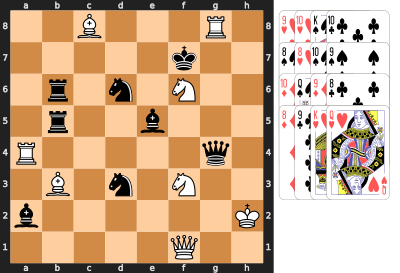
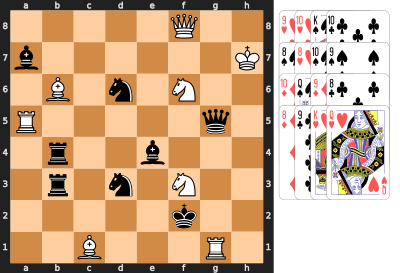
Update Chess Golf rules to replace pieces and choose more cards, for #27.

diff --git a/raw_rules/rules.md b/raw_rules/rules.md
@@ -223,8 +223,8 @@ players only learn about their pieces during capture, which slows the pace of
 the game.
 
 ## Chess Golf
-All the players try to work out the most efficient way to bring two pieces
-together, using all the wrong moves. This game is a series of puzzles, so let's
+All the players try to work out the most efficient way to capture the chosen
+pieces, using all the wrong moves. This game is a series of puzzles, so let's
 start with an example:
 
     . . B . . . R .
@@ -243,9 +243,9 @@ start with an example:
     arrow: b2, h2, grey
     arrow: g2, a2, grey
 
-Every puzzle starts with the pieces spread around the board, and two cards
-choosing two types of pieces according to the table in appendix A. The goal is
-to make one piece type capture the other in as few moves as possible. In this
+Every puzzle starts with the pieces spread around the board, and some cards
+choosing types of pieces according to the table in appendix A. The goal is
+to make one piece type capture the others in as few moves as possible. In this
 example, you have to make the white king capture one of the black bishops or
 make one of the black bishops capture the white king.
 
@@ -321,8 +321,8 @@ appendix A. You don't need the pawn cards, so you should end up with 16 cards.
 
 Put the rest of the cards away, you won't need them. Then shuffle the cards and
 place them next to the board. Draw one card at a time, placing the matching
-piece on the board. Starting in the top left corner, leave the following numbers
-of empty squares before each piece:
+piece on the board. Starting at a1 through h1, then a2 through h2, all the way
+to h8. Leave the following numbers of empty squares before each piece:
 
 * Kings - 6 empty squares
 * Queens - 5 empty squares
@@ -334,14 +334,14 @@ Here's an example with all the cards laid out in the order they were drawn, from
 the 9 and 10 of hearts to the queen of hearts. Check to make sure you agree with
 where the pieces were placed.
 
-    . . B . . . R .
-    . . . . . k . .
-    . r . n . N . .
-    . r . . b . . .
-    R . . . . . q .
-    . B . n . N . .
-    b . . . . . . K
     . . . . . Q . .
+    b . . . . . . K
+    . B . n . N . .
+    R . . . . . q .
+    . r . . b . . .
+    . r . n . N . .
+    . . . . . k . .
+    . . B . . . R .
     margins: 0, 0, 4, 0
     card: 9H, 8.5, 0
     card: 10H, 9, 0
@@ -369,18 +369,16 @@ top of the paper, leaving enough room for 9 scores and a course total.
 ### Play
 On the first turn, the dealer will **draw** two cards and place them face
 up next to the board where all players can see them. Check appendix A if you
-need to, and **announce** the two chosen piece types for this turn. On later
-turns, only draw one card and play it on top of the card for the piece that was
-just captured.
+need to, and **announce** the two chosen piece types for this turn.
 
-**Start** the timer, while all players try to **solve** the puzzle in as few
-moves as possible. While solving, no one actually moves the pieces. Just
-visualize how the pieces will move and count how many moves you need to capture
-one of the piece types with the other.
+All players try to **solve** the puzzle in as few moves as possible. While
+solving, no one actually moves the pieces. Just visualize how the pieces will
+move and count how many moves you need to capture one of the piece types with
+the other.
 
-When you **find** a solution and count the moves, put your fist on the table
-to show that you're ready. When all the players have a fist on the table or
-when the timer runs out, the solving phase ends.
+When you **find** a solution and count the moves, start the timer, then put your
+fist on the table to show that you're ready. When all the players have a fist on
+the table or when the timer runs out, the solving phase ends.
 
 Now, everyone **reveals** their move count at the same time. Bang your fist on
 the table as you count "one, two, three." As you say "three," everyone puts out
@@ -388,7 +386,7 @@ a number of fingers to show how many moves they need. The scorekeeper writes
 down everyone's numbers. If you think it's impossible, keep your hand in a fist
 as a zero.
 
-The player with the fewest strokes must now **demonstrate** the path. If some
+The player with the fewest moves must now **demonstrate** the path. If some
 players are tied for fewest, start with the dealer and go around to the
 left until you reach one of the tied players. That player must demonstrate. It
 can be helpful to start by placing coins under all the pieces that you're going
@@ -407,40 +405,64 @@ number demonstrate. If they are successful, then all the players with a zero get
 the maximum number plus a one-point penalty.
 
 After a successful demonstration, leave the pieces in their final positions, and
-place the captured piece beside the board. Remove the coins, if you used them.
-**Pass** the deck one player to the left to choose a new dealer.
+add any captured pieces back to the board in any empty squares. Remove the
+coins, if you used them. **Pass** the deck one player to the left to choose a
+new dealer.
 
-### Special Moves
+### Special Move
 The basic moves are to borrow a move from a neighbouring piece of the same
 colour. You may only capture one of the chosen piece types with the other one.
 No other captures are allowed.
 
-In addition, there are two special moves to help when you get stuck:
+In addition, there is one special move to help when you get stuck: if one of the
+colours has no pairs of pieces next to each other, then any piece of that colour
+may make a king's move.
 
-1. Move any piece on the board using a king's move of one square in any
-   direction.
-2. Add one of the captured pieces back to the board. You may add it to any
-   square, except that you may not add one of the chosen piece types to a
-   square that neighbours the other chosen piece type.
+For example, in the position below, neither the white knights nor the black
+queen has any neighbours of the matching colour. One way to move them is
+bringing in other pieces to borrow moves from. However, there's an easier way.
 
-The special moves are powerful, but expensive. When you count up your moves, a
-special move counts as 10. For example, adding a piece and then immediately
-using it to capture would count as 11 moves.
+    . . . . . Q . .
+    b . . . . . . K
+    . B . n . N . .
+    R . . . . . q .
+    . r . . b . . .
+    . r . n . N . .
+    . . . . . k . .
+    . . B . . . R .
+    margins: 0, 0, 4, 0
+    card: QS, 10, 0.5
+    card: 8H, 10, 4.5
 
-To allow scores over 10, use this special system when revealing your move counts:
+Moving the bishop breaks the last pair of neighbouring white pieces, so the
+white knight at f6 can now use a king's move to capture the black queen.
 
-* 1 point for right hand fingers
-* 5 points for right hand thumb
-* 10 points for left hand fingers
-* 50 points for left hand thumb
+    . . . . . Q . .
+    b . . . . . . K
+    . . B n . . . .
+    R . . . . . N .
+    . r . . b . . .
+    . r . n . N . .
+    . . . . . k . .
+    . . B . . . R .
+    margins: 0, 0, 4, 0
+    card: QS, 10, 0.5
+    card: 8H, 10, 4.5
+    arrow: b6, c6, white
+    arrow: f6, g5, white
 
-That will let you reveal scores up to 99, more than you will need. If that's too
-fiddly, you can give each player their own paper and pencil to write their
-scores in secret before everyone reveals them.
+### Difficulty Level
+Once all players pick the same number of moves on a turn, the dealer may choose
+to increase the difficulty level by dealing one more card on later turns. If
+all players pick the same number of moves on a turn with three cards, the dealer
+may increase to four cards, and so on.
 
 ### Game End
-Continue dealing a new card each turn until you have played 9 turns. Add up the
-points for all 9 turns, and award the game to the player with the lowest score.
+Continue dealing new cards each turn until you have played 9 turns. If you
+don't have enough cards to deal, shuffle the discard pile back in before you
+deal. Add up the points for all 9 turns, and award the game to the player with
+the lowest score.
+
 A tie goes to the best dressed player.
 
 ## Crowded House

diff --git a/docs/rules.md b/docs/rules.md
@@ -220,15 +220,15 @@ players only learn about their pieces during capture, which slows the pace of
 the game.
 
 ## Chess Golf
-All the players try to work out the most efficient way to bring two pieces
-together, using all the wrong moves. This game is a series of puzzles, so let's
+All the players try to work out the most efficient way to capture the chosen
+pieces, using all the wrong moves. This game is a series of puzzles, so let's
 start with an example:
 
 ![Diagram](images/rules/chess-golf1.png)
 
-Every puzzle starts with the pieces spread around the board, and two cards
-choosing two types of pieces according to the table in appendix A. The goal is
-to make one piece type capture the other in as few moves as possible. In this
+Every puzzle starts with the pieces spread around the board, and some cards
+choosing types of pieces according to the table in appendix A. The goal is
+to make one piece type capture the others in as few moves as possible. In this
 example, you have to make the white king capture one of the black bishops or
 make one of the black bishops capture the white king.
 
@@ -278,8 +278,8 @@ appendix A. You don't need the pawn cards, so you should end up with 16 cards.
 
 Put the rest of the cards away, you won't need them. Then shuffle the cards and
 place them next to the board. Draw one card at a time, placing the matching
-piece on the board. Starting in the top left corner, leave the following numbers
-of empty squares before each piece:
+piece on the board. Starting at a1 through h1, then a2 through h2, all the way
+to h8. Leave the following numbers of empty squares before each piece:
 
 * Kings - 6 empty squares
 * Queens - 5 empty squares
@@ -302,18 +302,16 @@ top of the paper, leaving enough room for 9 scores and a course total.
 ### Play
 On the first turn, the dealer will **draw** two cards and place them face
 up next to the board where all players can see them. Check appendix A if you
-need to, and **announce** the two chosen piece types for this turn. On later
-turns, only draw one card and play it on top of the card for the piece that was
-just captured.
+need to, and **announce** the two chosen piece types for this turn.
 
-**Start** the timer, while all players try to **solve** the puzzle in as few
-moves as possible. While solving, no one actually moves the pieces. Just
-visualize how the pieces will move and count how many moves you need to capture
-one of the piece types with the other.
+All players try to **solve** the puzzle in as few moves as possible. While
+solving, no one actually moves the pieces. Just visualize how the pieces will
+move and count how many moves you need to capture one of the piece types with
+the other.
 
-When you **find** a solution and count the moves, put your fist on the table
-to show that you're ready. When all the players have a fist on the table or
-when the timer runs out, the solving phase ends.
+When you **find** a solution and count the moves, start the timer, then put your
+fist on the table to show that you're ready. When all the players have a fist on
+the table or when the timer runs out, the solving phase ends.
 
 Now, everyone **reveals** their move count at the same time. Bang your fist on
 the table as you count "one, two, three." As you say "three," everyone puts out
@@ -321,7 +319,7 @@ a number of fingers to show how many moves they need. The scorekeeper writes
 down everyone's numbers. If you think it's impossible, keep your hand in a fist
 as a zero.
 
-The player with the fewest strokes must now **demonstrate** the path. If some
+The player with the fewest moves must now **demonstrate** the path. If some
 players are tied for fewest, start with the dealer and go around to the
 left until you reach one of the tied players. That player must demonstrate. It
 can be helpful to start by placing coins under all the pieces that you're going
@@ -340,40 +338,42 @@ number demonstrate. If they are successful, then all the players with a zero get
 the maximum number plus a one-point penalty.
 
 After a successful demonstration, leave the pieces in their final positions, and
-place the captured piece beside the board. Remove the coins, if you used them.
-**Pass** the deck one player to the left to choose a new dealer.
+add any captured pieces back to the board in any empty squares. Remove the
+coins, if you used them. **Pass** the deck one player to the left to choose a
+new dealer.
 
-### Special Moves
+### Special Move
 The basic moves are to borrow a move from a neighbouring piece of the same
 colour. You may only capture one of the chosen piece types with the other one.
 No other captures are allowed.
 
-In addition, there are two special moves to help when you get stuck:
+In addition, there is one special move to help when you get stuck: if one of the
+colours has no pairs of pieces next to each other, then any piece of that colour
+may make a king's move.
 
-1. Move any piece on the board using a king's move of one square in any
-   direction.
-2. Add one of the captured pieces back to the board. You may add it to any
-   square, except that you may not add one of the chosen piece types to a
-   square that neighbours the other chosen piece type.
+For example, in the position below, neither the white knights nor the black
+queen has any neighbours of the matching colour. One way to move them is
+bringing in other pieces to borrow moves from. However, there's an easier way.
 
-The special moves are powerful, but expensive. When you count up your moves, a
-special move counts as 10. For example, adding a piece and then immediately
-using it to capture would count as 11 moves.
+![Diagram](images/rules/chess-golf5.png)
 
-To allow scores over 10, use this special system when revealing your move counts:
+Moving the bishop breaks the last pair of neighbouring white pieces, so the
+white knight at f6 can now use a king's move to capture the black queen.
 
-* 1 point for right hand fingers
-* 5 points for right hand thumb
-* 10 points for left hand fingers
-* 50 points for left hand thumb
+![Diagram](images/rules/chess-golf6.png)
 
-That will let you reveal scores up to 99, more than you will need. If that's too
-fiddly, you can give each player their own paper and pencil to write their
-scores in secret before everyone reveals them.
+### Difficulty Level
+Once all players pick the same number of moves on a turn, the dealer may choose
+to increase the difficulty level by dealing one more card on later turns. If
+all players pick the same number of moves on a turn with three cards, the dealer
+may increase to four cards, and so on.
 
 ### Game End
-Continue dealing a new card each turn until you have played 9 turns. Add up the
-points for all 9 turns, and award the game to the player with the lowest score.
+Continue dealing new cards each turn until you have played 9 turns. If you
+don't have enough cards to deal, shuffle the discard pile back in before you
+deal. Add up the points for all 9 turns, and award the game to the player with
+the lowest score.
+
 A tie goes to the best dressed player.
 
 ## Crowded House
@@ -674,8 +674,8 @@ hearts and spades.
 Know some other lighthearted chess variants? Ideas to share? Get in touch at
 [https://donkirkby.github.io/chess-kit][github].
 
-Zombie Chess, Masquerade Chess, Crowded House, and Cooperative Chess are
-original games designed by [Don Kirkby][don].
+Zombie Chess, Masquerade Chess, Chess Golf, Crowded House, and Cooperative Chess
+are original games designed by [Don Kirkby][don].
 
 [github]: https://donkirkby.github.io/chess-kit
 [don]: https://donkirkby.github.io/
